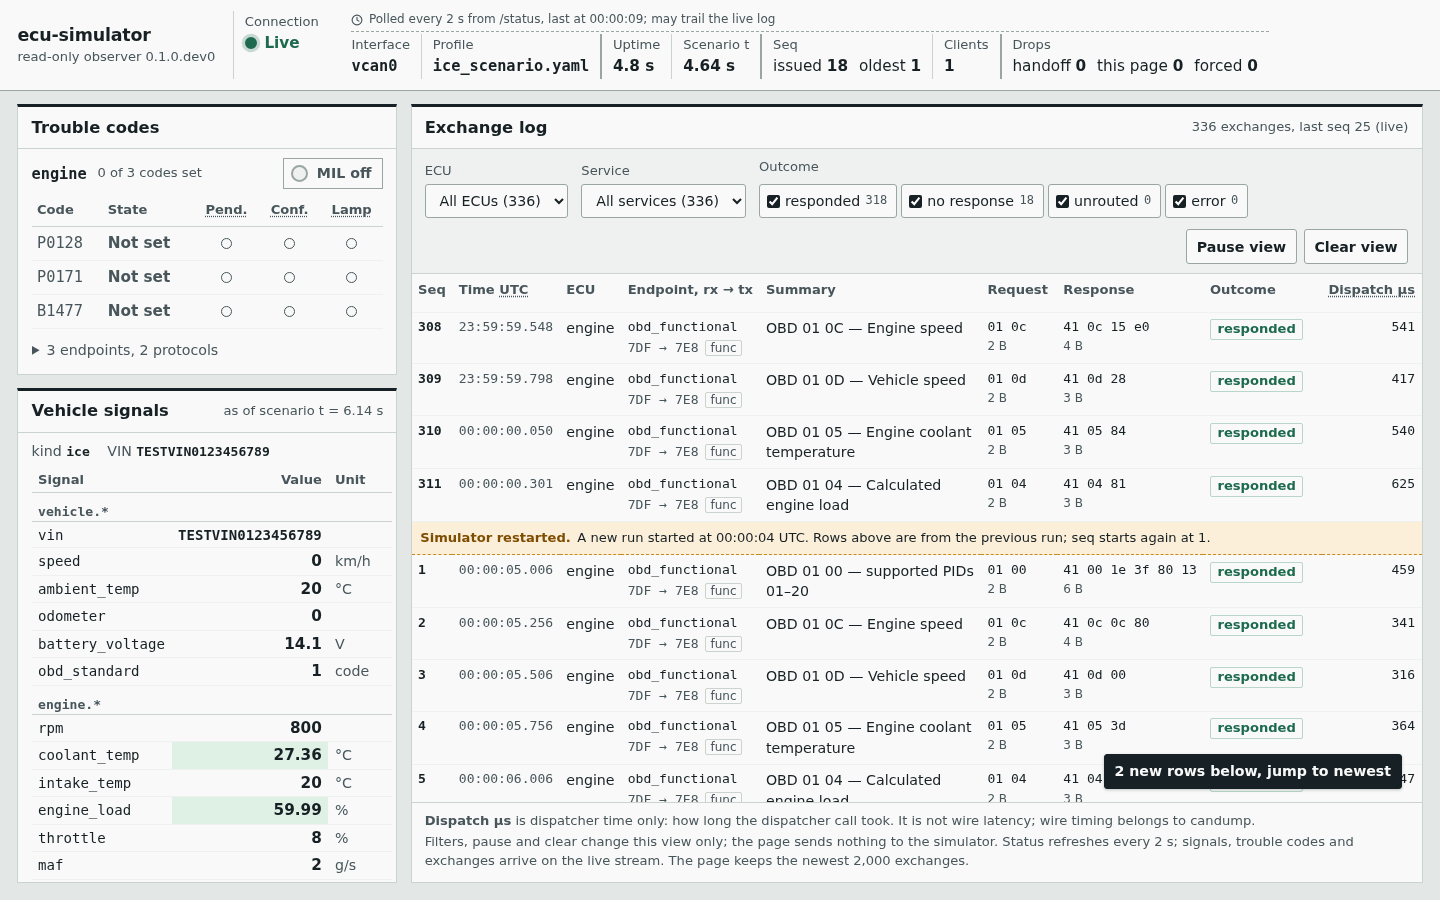
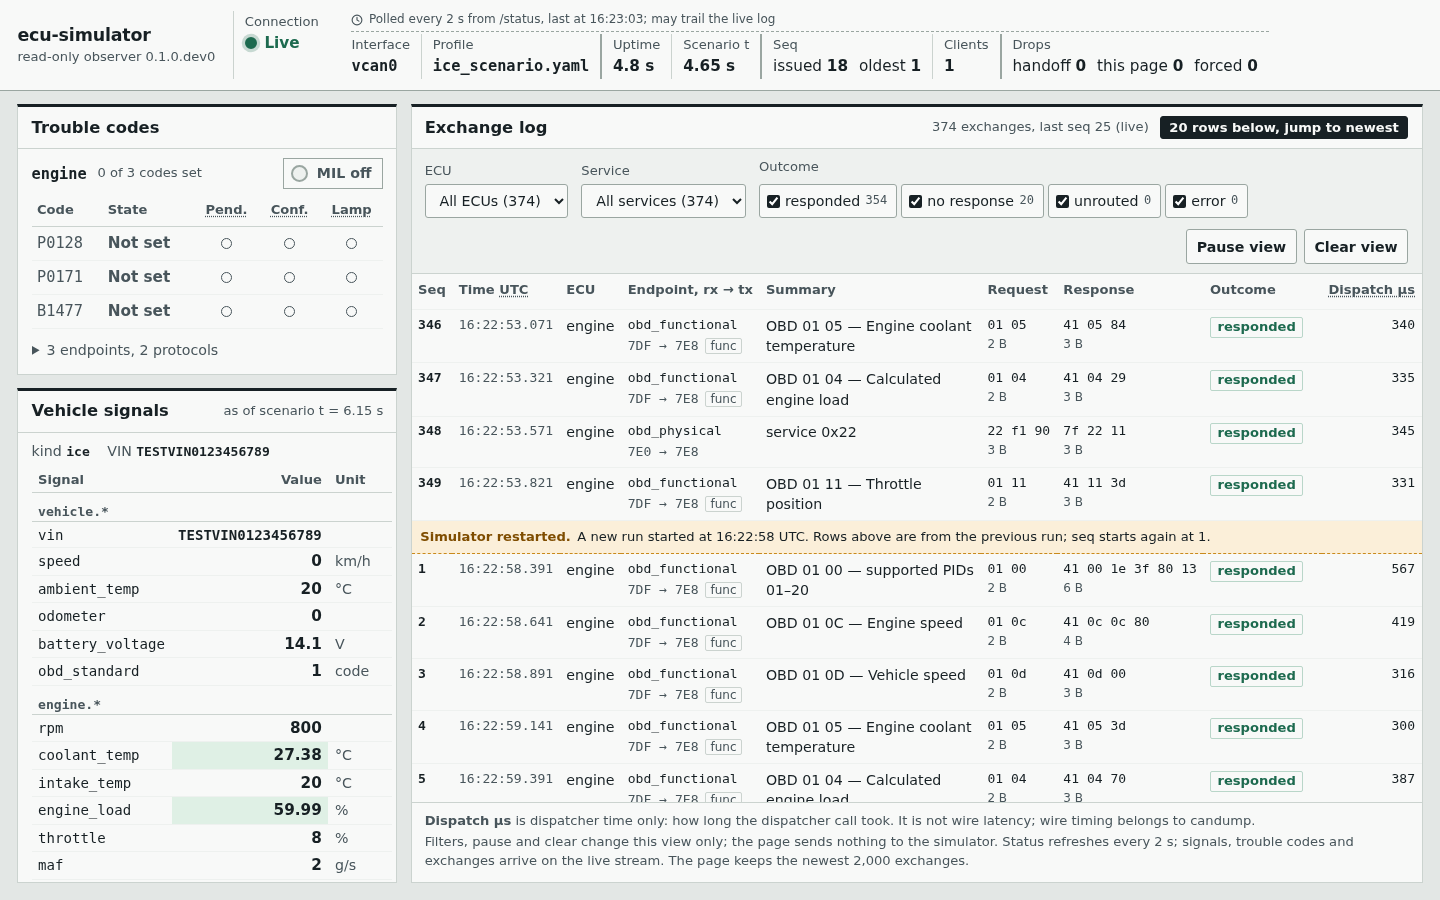
docs(validation): retake the M3a live demo at 106b58a, with jump-control checks at three widths
Every screenshot is from one namespace run on the page after Task 21. At 1440, 2000
and 390 px a real wheel scroll up shows the header's rows-below control, checked
against a separate DOM count (22/22, 21/21 with 20/20 just before, 16/16), and a real
click brings the log back to the newest row. d4/d5 are replaced by the j-1440 shots.
The capture script keeps Chrome's temporary socket directory inside its profile, so a
run leaves nothing in /tmp. The record keeps the M2 STOP and the hosted CAN_ISOTP
skips explicitly open.

diff --git a/scripts/gui_demo_capture.py b/scripts/gui_demo_capture.py
@@ -64,9 +64,9 @@ class Run:
         self.logfile.write(line + "\n")
         self.logfile.flush()
 
-    def spawn(self, cmd: list[str], logname: str) -> subprocess.Popen[bytes]:
+    def spawn(self, cmd: list[str], logname: str, env: dict[str, str] | None = None) -> subprocess.Popen[bytes]:
         out = (self.outdir / logname).open("ab")
-        proc = subprocess.Popen(cmd, stdout=out, stderr=subprocess.STDOUT, cwd=ROOT)
+        proc = subprocess.Popen(cmd, stdout=out, stderr=subprocess.STDOUT, cwd=ROOT, env=env)
         out.close()
         self.procs.append(proc)
         return proc
@@ -208,14 +208,58 @@ class DevTools:
 
 
 CONN = "document.getElementById('conn-text').textContent"
-FOLLOW_TEXT = "(function(){var b=document.getElementById('btn-follow'); return b.hidden ? '' : b.textContent;})()"
+# One snapshot of the jump control against the DOM, taken in a single evaluation so both
+# numbers describe the same moment. `counted` is every shown log row (exchange or marker)
+# whose top edge is at or below the log box's bottom edge, counted here independently of
+# the page's own code; `partial` is the row cut by that edge, if any. `overlap` is true if
+# the control's box intersects the log box.
+JUMP_STATE = """(function(){
+  var b = document.getElementById('btn-follow'), w = document.getElementById('logwrap');
+  var wr = w.getBoundingClientRect(), br = b.getBoundingClientRect();
+  var rows = document.querySelectorAll('#log-body > tr'), counted = 0, partial = 0;
+  for (var i = 0; i < rows.length; i++) {
+    var r = rows[i].getBoundingClientRect();
+    if (r.height === 0) continue;
+    if (r.top >= wr.bottom - 1) counted++; else if (r.bottom > wr.bottom + 1) partial++;
+  }
+  var shown = !b.classList.contains('is-off') && getComputedStyle(b).visibility !== 'hidden';
+  var overlap = shown && br.left < wr.right && br.right > wr.left && br.top < wr.bottom && br.bottom > wr.top;
+  var m = /^([0-9,]+) rows? below/.exec(b.textContent);
+  return {shown: shown, text: b.textContent, n: m ? Number(m[1].replace(/,/g, '')) : null,
+          counted: counted, partial: partial, overlap: overlap,
+          in_header: !!b.closest('.panel__head'), last_seq: document.getElementById('log-count').textContent};
+})()"""
+
+
+async def jump_pair(run: Run, cdp: DevTools, label: str) -> None:
+    """At the current width: a real wheel scroll up over the log, a shot of the header's
+    "N rows below" control with N checked against the DOM, then a real click on it and a
+    shot back at the newest row with the control hidden."""
+    await cdp.js("document.getElementById('log-panel').scrollIntoView({block: 'start'})")
+    await asyncio.sleep(0.5)
+    await cdp.wheel("#logwrap", -700)
+    await asyncio.sleep(2.5)
+    before = await cdp.js(JUMP_STATE)
+    await cdp.shot(run, f"j-{label}-rows-below.png")
+    after = await cdp.js(JUMP_STATE)
+    run.log(f"j-{label} rows below, just before the shot: {before}")
+    run.log(f"j-{label} rows below, just after the shot:  {after}")
+    await cdp.click("#btn-follow")
+    await asyncio.sleep(1.5)
+    jumped = await cdp.js(JUMP_STATE)
+    await cdp.shot(run, f"j-{label}-jumped.png")
+    run.log(f"j-{label} after the click: {jumped}")
 
 
 async def launch_chrome(run: Run, chrome: str, profile_dir: str) -> subprocess.Popen[bytes]:
     run.log(f"start headless Chrome: {chrome}")
     proc = run.spawn([chrome, "--headless=new", "--no-sandbox", "--disable-gpu", "--hide-scrollbars",
                       "--no-first-run", "--no-default-browser-check", f"--user-data-dir={profile_dir}",
-                      f"--remote-debugging-port={DEVTOOLS_PORT}", "about:blank"], "chrome.log")
+                      f"--remote-debugging-port={DEVTOOLS_PORT}", "about:blank"], "chrome.log",
+                     # Chrome puts its singleton socket directory (com.google.Chrome.*) under
+                     # TMPDIR and does not always remove it; keep it inside the profile
+                     # directory, which is removed on exit.
+                     env={**os.environ, "TMPDIR": profile_dir})
     return proc
 
 
@@ -322,15 +366,8 @@ async def session(run: Run, chrome: str, profile_dir: str) -> None:
             # After the filter reset, pause and resume, the log still follows the newest rows.
             await asyncio.sleep(3.0)
             await cdp.shot(run, "d3-resumed-log-following.png")
-            # A real wheel scroll up: following stops and new rows are counted below.
-            await cdp.wheel("#logwrap", -700)
-            await asyncio.sleep(3.0)
-            run.log(f"after the wheel scroll up, the follow control reads: {await cdp.js(FOLLOW_TEXT)!r}")
-            await cdp.shot(run, "d4-scrolled-up-new-rows-below.png")
-            await cdp.click("#btn-follow")
-            await asyncio.sleep(1.5)
-            run.log(f"after clicking it, the follow control reads: {await cdp.js(FOLLOW_TEXT)!r}")
-            await cdp.shot(run, "d5-jumped-to-newest.png")
+            # j. The jump control at 1440: a real wheel scroll up, then a real click on it.
+            await jump_pair(run, cdp, "1440")
 
             # c. The DTC panel: P0128 pending at t = 40 s; confirmed with the MIL at t = 75 s.
             await until_scenario(44)
@@ -343,10 +380,13 @@ async def session(run: Run, chrome: str, profile_dir: str) -> None:
             await asyncio.sleep(1.5)
             await cdp.shot(run, "g1-narrow-390.png")
             await cdp.shot(run, "g2-narrow-390-full-page.png", full_page=True)
+            await jump_pair(run, cdp, "390")
             # The owner's own desktop width.
             await cdp.viewport(*OWNER_WIDE)
+            await cdp.js("window.scrollTo(0, 0)")
             await asyncio.sleep(1.5)
             await cdp.shot(run, "w-desktop-2000x1100.png")
+            await jump_pair(run, cdp, "2000")
             await cdp.viewport(*WIDE)
             await asyncio.sleep(1.0)
 

diff --git a/docs/validation/gui-m3a-live-demo.md b/docs/validation/gui-m3a-live-demo.md
@@ -6,10 +6,16 @@ P1–P9 ([decisions/0010 §9.2](../decisions/0010-gui-observer-api.md)). The M2 
 relieves it. The `dispatch_us` values visible in the screenshots are dispatcher time from a
 single run at a human request rate, and are not evidence about latency.
 
+**Still explicitly open, and not touched by this record:**
+- the M2 latency `STOP`;
+- the 68 CAN_ISOTP tests that hosted CI skips, because its runners have no `vcan`/`can-isotp`. They run only in a local namespace with a `vcan0`.
+
+This demo neither closes nor narrows either of them.
+
 **The V1.0 and Phase 8b gates are untouched.** No simulator, protocol, profile, API
 endpoint or server code changed in this task. The page fixes are in the static files under
-`src/ecu_simulator/api/static/` (`app.css`, `app.js`, `index.html`): `4b92c9a` and
-`0355164` (see "Findings"), and Task 20's `8d953d3`. The supported-PID summaries come from Task 19's
+`src/ecu_simulator/api/static/` (`app.css`, `app.js`, `index.html`): `4b92c9a`, `0355164`
+and `106b58a` (see "Findings"), and Task 20's `8d953d3`. The supported-PID summaries come from Task 19's
 `5e9361b` and `cfd8c24` in `observe/`. These screenshots were retaken against all of
 them. Apart from those, the changes are the demo scripts and this record.
 
@@ -17,8 +23,8 @@ them. Apart from those, the changes are the demo scripts and this record.
 
 | Item | Value |
 |---|---|
-| Branch, commit | `gui` at `0355164eb6d19a90b2aa1f78bfd463abcb398bb2` (the trouble-codes table fits the sidebar at every width). The capture script is unchanged from `efc1969` |
-| Date | 2026-09-28, 23:58:35 UTC (capture start). The run crossed midnight UTC, so later shots read 00:00 times |
+| Branch, commit | `gui` at `106b58a2379b666d34751193dd25ae931a821bae` (Task 21: the jump control counts every row below and sits in the log header). The capture script's update, committed on top, adds the `j-*` steps and keeps Chrome's temporary files inside its profile directory |
+| Date | 2026-09-29, 16:21:18 UTC (capture start) |
 | Kernel | Linux 6.8.0-138-generic |
 | CPU governor | `powersave` on all 12 CPUs (not pinned; this is not a timing run) |
 | Python | 3.12.12 (worktree `.venv`) |
@@ -28,7 +34,7 @@ them. Apart from those, the changes are the demo scripts and this record.
 The one command:
 
 ```
-scripts/run_gui_demo.sh <scratchpad>/run7
+scripts/run_gui_demo.sh <scratchpad>/run9
 ```
 
 The screenshots in [gui-m3a-live-demo/](gui-m3a-live-demo/) are all from that one run,
@@ -97,23 +103,31 @@ In the trouble-codes table the flag columns are now marks under short headers ("
 | File | What it shows |
 |---|---|
 | [a-loading.png](gui-m3a-live-demo/a-loading.png) | **Loading.** "Connecting"; "Loading trouble codes", "Loading vehicle signals", "Loading the exchange history". The first `/api/v1/` request was held in DevTools to capture this; otherwise it lasts well under a second |
-| [h1-empty-fresh-start.png](gui-m3a-live-demo/h1-empty-fresh-start.png) | **Empty: a fresh start before any traffic.** Live, t = 1.10 s, seq issued 0, the polled label. "No exchanges yet. The simulator has not handled a diagnostic request since it started." The scenario is already moving `coolant_temp` and `engine_load` |
-| [b1-live.png](gui-m3a-live-demo/b1-live.png) | **Live, t ≈ 23 s.** 80 exchanges: speed 30, rpm 1600, coolant 48.98 °C, load 33.35 %, throttle 41 %. It includes row 73, "OBD 01 00 — supported PIDs 01–20", and the 0x22 NRC |
-| [b2-live-7s-later.png](gui-m3a-live-demo/b2-live-7s-later.png) | **Live, t ≈ 29–31 s, about 7 s later.** 106 exchanges: speed 55, rpm 1900, coolant 56.88 °C, load 59.82 %. The log follows to the newest row, 106 |
-| [b3-live-supported-pid-ranges.png](gui-m3a-live-demo/b3-live-supported-pid-ranges.png) | **The supported-PID summaries (Task 19).** Row 107 is "OBD 01 20 — supported PIDs 21–40" (`41 20 00 02 00 01`); row 109 is "OBD 01 00 — supported PIDs 01–20" (`41 00 1e 3f 80 13`). The polled label reads "Polled every 2 s from /status, last at 23:59:06; may trail the live log". The status Seq "issued 107" trails the log's "last seq 112", as that label says it may |
-| [d1-filter-service-0x19.png](gui-m3a-live-demo/d1-filter-service-0x19.png) | **The service filter 0x19.** "12 of 116 shown". UDS 19 rows from 7E0 and 7E1, with "N exchanges hidden by filters (not a gap)" between them |
-| [d2-paused-held-rows.png](gui-m3a-live-demo/d2-paused-held-rows.png) | **Paused, after the filter was reset.** "View paused. 20 new exchanges are held"; the header reads "116 exchanges, last seq 136"; the button reads "Resume view" |
-| [d3-resumed-log-following.png](gui-m3a-live-demo/d3-resumed-log-following.png) | **3 s after Resume: the log follows.** "147 exchanges, last seq 147", and row 147 is the last visible row, with no scrolling. P0128 has just turned "Pending" |
-| [d4-scrolled-up-new-rows-below.png](gui-m3a-live-demo/d4-scrolled-up-new-rows-below.png) | **After a real wheel scroll up (deltaY −700).** The log stays at rows 126–135 while exchanges arrive (159). The control reads "11 new rows below, jump to newest" |
-| [d5-jumped-to-newest.png](gui-m3a-live-demo/d5-jumped-to-newest.png) | **After a real click on that control.** The control is gone, and the log shows the newest row, 166 |
-| [c1-dtc-pending.png](gui-m3a-live-demo/c1-dtc-pending.png) | **DTC pending, t ≈ 45 s.** P0128 "Pending": a filled Pend. mark, rings under Conf. and Lamp; "1 of 3 codes set"; MIL off. UDS 19 02 FF on 7E1 answers `59 02 8c 01 28 01` (P0128 in the record). The log follows, at row 166 |
-| [c2-dtc-confirmed-mil.png](gui-m3a-live-demo/c2-dtc-confirmed-mil.png) | **DTC confirmed with the MIL, t ≈ 79 s.** P0128 "Confirmed", with filled marks under Pend., Conf. and **Lamp, all fully visible inside the panel**; "MIL on"; speed 80, rpm 2100, coolant 92 °C |
-| [g1-narrow-390.png](gui-m3a-live-demo/g1-narrow-390.png) | **390 px, viewport.** The status grid with the polled label wrapped under Connection; the trouble codes with MIL on and every column visible |
+| [h1-empty-fresh-start.png](gui-m3a-live-demo/h1-empty-fresh-start.png) | **Empty: a fresh start before any traffic.** Live, t = 1.08 s, seq issued 0, the polled label. "No exchanges yet …" The scenario is already moving `coolant_temp` and `engine_load` |
+| [b1-live.png](gui-m3a-live-demo/b1-live.png) | **Live, t ≈ 23 s.** 81 exchanges: speed 30, rpm 1600, coolant 48.53 °C. Includes row 73, "OBD 01 00 — supported PIDs 01–20", and the 0x22 NRC (row 78) |
+| [b2-live-7s-later.png](gui-m3a-live-demo/b2-live-7s-later.png) | **Live, t ≈ 29–31 s, about 7 s later.** 107 exchanges: speed 55, rpm 1900, coolant 56.94 °C. The log follows to the newest row, 107 ("01 20 — supported PIDs 21–40") |
+| [b3-live-supported-pid-ranges.png](gui-m3a-live-demo/b3-live-supported-pid-ranges.png) | **The supported-PID summaries.** Row 107 "OBD 01 20 — supported PIDs 21–40", row 109 "OBD 01 00 — supported PIDs 01–20". The polled label; the status Seq "issued 107" trails the log's "last seq 112", as the label says it may |
+| [d1-filter-service-0x19.png](gui-m3a-live-demo/d1-filter-service-0x19.png) | **The service filter 0x19.** "12 of 116 shown", UDS 19 rows from 7E0 and 7E1 with "N exchanges hidden by filters (not a gap)" between them |
+| [d2-paused-held-rows.png](gui-m3a-live-demo/d2-paused-held-rows.png) | **Paused, after the filter was reset.** "View paused. 20 new exchanges are held"; "116 exchanges, last seq 136"; "Resume view" |
+| [d3-resumed-log-following.png](gui-m3a-live-demo/d3-resumed-log-following.png) | **3 s after Resume: the log follows** to row 147, with no scrolling. P0128 has just turned "Pending" |
+| [j-1440-rows-below.png](gui-m3a-live-demo/j-1440-rows-below.png) | **1440: after a real wheel scroll up (deltaY −700).** The log stays at rows 128–137; the header shows "159 exchanges, last seq 159 (live)" and, beside it, **"22 rows below, jump to newest"**. Counted from the DOM at the same moment: **22** rows wholly below the log box (138–159), plus 1 cut by its edge (137). Same before and after the shot. The control does not intersect the log box |
+| [j-1440-jumped.png](gui-m3a-live-demo/j-1440-jumped.png) | **1440: after a real click on it.** Back at the newest row, 166; the control is hidden, and 0 rows are below |
+| [c1-dtc-pending.png](gui-m3a-live-demo/c1-dtc-pending.png) | **DTC pending, t ≈ 45 s.** P0128 "Pending": a filled Pend. mark, rings under Conf. and Lamp; MIL off. UDS 19 on 7E1 answers `59 02 8c 01 28 01`. The log follows, at row 166 |
+| [c2-dtc-confirmed-mil.png](gui-m3a-live-demo/c2-dtc-confirmed-mil.png) | **DTC confirmed with the MIL, t ≈ 79 s.** P0128 "Confirmed" with filled Pend., Conf. and **Lamp marks, all fully visible**; "MIL on"; speed 40, rpm 1400, coolant 92 °C |
+| [g1-narrow-390.png](gui-m3a-live-demo/g1-narrow-390.png) | **390 px, viewport.** The status grid with the polled label; the trouble codes with MIL on and every column visible |
 | [g2-narrow-390-full-page.png](gui-m3a-live-demo/g2-narrow-390-full-page.png) | **390 px, full page.** Panels stacked; every vehicle signal; log rows as blocks, 295–300, ending at the newest |
-| [w-desktop-2000x1100.png](gui-m3a-live-demo/w-desktop-2000x1100.png) | **2000×1100, the owner's width.** A wider side column with the whole DTC table; the log's summaries fit on one line, including row 305, "OBD 01 20 — supported PIDs 21–40"; the polled label |
-| [e-disconnected-stale.png](gui-m3a-live-demo/e-disconnected-stale.png) | **Disconnected, about 4 s after SIGTERM.** "Disconnected, retry in 4 s"; the polled label keeps its last time (23:59:58). The banner reads "Last live 00:00:00 UTC (4 s ago) … the simulator is shutting down (1001) …", with "Retry now". Each panel shows "Stale, as of 00:00:00 UTC", and the status readouts are struck through. **All three DTC rows and the Lamp column are fully visible.** The log keeps 311 exchanges, including 01 20 and 01 00 (rows 305 and 307) |
-| [f-reconnected-after-restart.png](gui-m3a-live-demo/f-reconnected-after-restart.png) | **Reconnected after a restart.** Live at t = 4.64 s, MIL off, P0128 not set. A real wheel scroll up of about 962 px shows the marker: "Simulator restarted. A new run started at 00:00:04 UTC. Rows above are from the previous run; seq starts again at 1." Old rows 308–311 are above it and new rows 1–5 below. The control reads "2 new rows below, jump to newest", counting the rows that arrived after the scroll |
-| [h2-no-scenario.png](gui-m3a-live-demo/h2-no-scenario.png) | **No scenario.** `ice_default.yaml`, on a fresh page load with no traffic. Scenario t reads "no scenario"; the vehicle signals read "no scenario: values as configured"; "No exchanges yet". The profile's confirmed B1477 and P0001 are shown with filled Pend. and Conf. marks, a ring under Lamp (fully visible), and MIL off |
+| [j-390-rows-below.png](gui-m3a-live-demo/j-390-rows-below.png) | **390: the page scrolled to the log panel, then a real wheel scroll up over the log.** The header reads "312 exchanges, last seq 312 (live)" with **"16 rows below, jump to newest"** on its own line under it. Counted from the DOM: **16** rows wholly below the log box, plus 1 cut by its edge. Same before and after the shot. The control does not intersect the log box. At this width the log box extends past the bottom of the phone's screen, so the rows between 295 and the box's edge are inside the box but off-screen; both N and the count measure against the log box |
+| [j-390-jumped.png](gui-m3a-live-demo/j-390-jumped.png) | **390: after a real click on it.** The log is at the newest rows (314 onward, last 319); the control is hidden, and 0 rows are below |
+| [w-desktop-2000x1100.png](gui-m3a-live-demo/w-desktop-2000x1100.png) | **2000×1100, the owner's width.** The whole DTC table; one-line summaries, including "01 20 — supported PIDs 21–40" and "01 00 — supported PIDs 01–20"; the polled label; the log at the newest row, 325 |
+| [j-2000-rows-below.png](gui-m3a-live-demo/j-2000-rows-below.png) | **2000: after a real wheel scroll up.** Rows 306–316 are in view; the header shows "338 exchanges, last seq 338 (live)" and **"21 rows below, jump to newest"**. Counted from the DOM: **20** just before the shot (while the control read 20), **21** just after (the control read 21), plus 1 cut by the edge each time. Rows 318–338 are the 21 below. One exchange arrived during the capture; N matched the count both times. The control does not intersect the log box |
+| [j-2000-jumped.png](gui-m3a-live-demo/j-2000-jumped.png) | **2000: after a real click on it.** Back at the newest row, 344; the control is hidden, and 0 rows are below |
+| [e-disconnected-stale.png](gui-m3a-live-demo/e-disconnected-stale.png) | **Disconnected, about 4 s after SIGTERM.** The banner reads "Last live 16:22:53 UTC (4 s ago) … the simulator is shutting down (1001) …", with "Retry now". Each panel shows "Stale, as of 16:22:53 UTC", and the status readouts are struck through. **All three DTC rows and the Lamp column are fully visible.** The log keeps 349 exchanges |
+| [f-reconnected-after-restart.png](gui-m3a-live-demo/f-reconnected-after-restart.png) | **Reconnected after a restart.** Live, t = 4.65 s, MIL off. A real wheel scroll up of about 961 px shows the marker: "Simulator restarted. A new run started at 16:22:58 UTC …", with old rows 346–349 above it and new rows 1–5 below. The header control reads **"20 rows below, jump to newest"**, which is the new rows 6–25, now counted in full (Task 21) |
+| [h2-no-scenario.png](gui-m3a-live-demo/h2-no-scenario.png) | **No scenario.** `ice_default.yaml`, on a fresh page load with no traffic. "no scenario: values as configured"; "No exchanges yet". B1477 and P0001 are confirmed, with filled Pend. and Conf. marks and a ring under Lamp (fully visible); MIL off |
+
+In every shot the jump control sits in the log header. When it is hidden (every shot
+except the three `j-*-rows-below` and `f`), it keeps its place without showing. It never
+covers a log row: `overlap` was false in all nine DOM checks.
 
 On the final page load, `performance.getEntriesByType('resource')` listed no resource from
 any origin other than `http://127.0.0.1:8765`. The whole run produced **no page exception
@@ -132,7 +146,8 @@ in `4b92c9a`, and the screenshots above were retaken against the fix:
    while new rows arrived. **Fixed in `4b92c9a`:** only the reader's own scroll stops or
    resumes following, and a "N new rows below, jump to newest" control brings it back.
    The retake shows it following in b2, d3, c1, c2 and g2; stopped by a real wheel
-   scroll in d4 and f; and resumed by a click in d5.
+   scroll in the `j-*-rows-below` shots and f; and resumed by a click in the
+   `j-*-jumped` shots.
 2. **In the stale view the trouble-codes panel clipped its third row** at desktop width,
    under the disconnected banner. **Fixed in `4b92c9a`:** e shows all three rows.
 
@@ -145,6 +160,12 @@ captures. Task 19 (`5e9361b`, `cfd8c24`) changed them to "supported PIDs 01–20
    (Task 20). **Fixed in `0355164`:** the flag columns show marks under short headers,
    and a safety net scrolls the table sideways instead of clipping it. The retake shows
    the Lamp column fully visible in c2, e and h2, and at 390 px and 2000 px.
+4. **The jump control counted only rows that arrived after the scroll, and lay over the
+   bottom of the log.** In the earlier captures, f read "2 new rows below" although rows
+   7–25 were below, and the control covered the last visible row. Found in the owner's
+   second review. **Fixed in `106b58a` (Task 21):** the control counts every shown row
+   below the viewport, and sits in the log header. The retake checks N against a
+   separate DOM count at 1440, 2000 and 390 px (the `j-*` shots), and f now reads 20.
 
 ## Test suite (at `0355164`)
 
